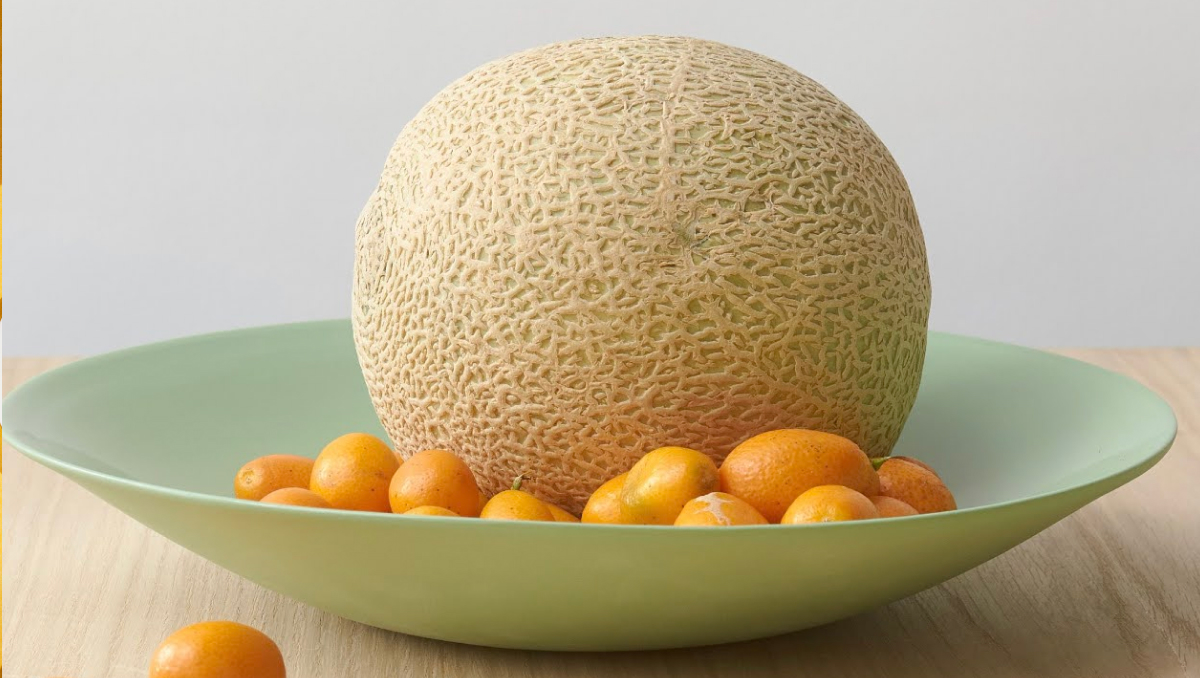
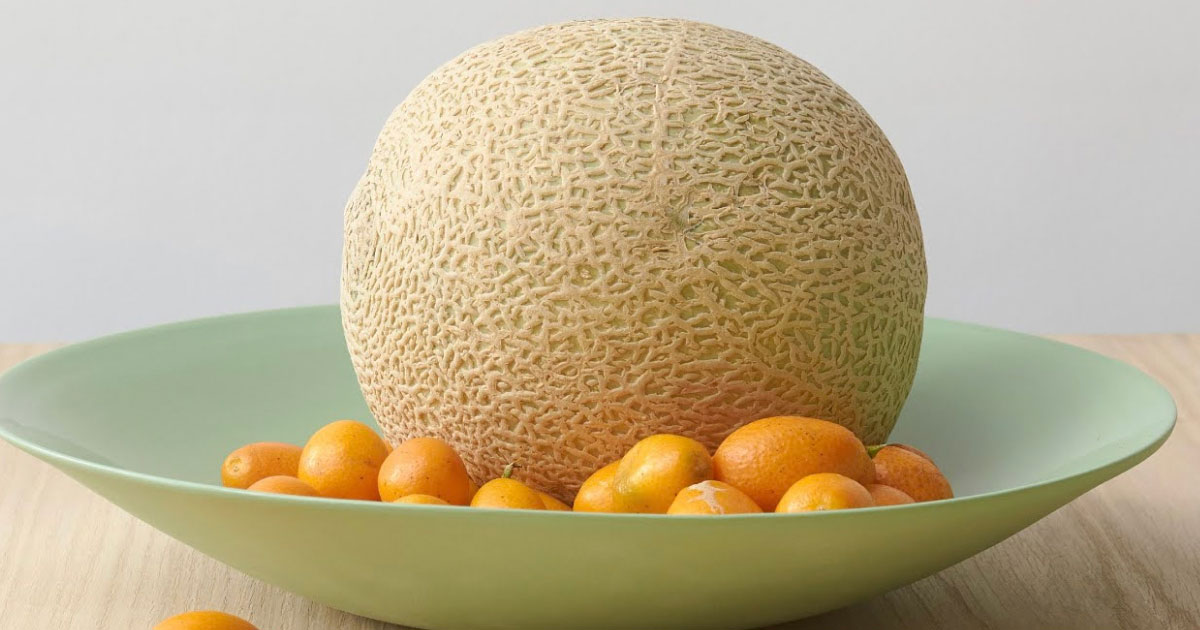
Responsive of homepage and QA fixes

diff --git a/app/components/TopHeader.jsx b/app/components/TopHeader.jsx
@@ -2,6 +2,7 @@ import { Link } from "@remix-run/react";
 import Popup from "./Popup";
 import ModalPortal from "./ModalPortal";
 import { useState, useEffect } from "react";
+import TopLogo from '/assets/Images/Hopson-toplogo.png';
 
 const TopHeader = () => {
     const [showPopup, setShowPopup] = useState(false);
@@ -23,26 +24,32 @@ const TopHeader = () => {
     };
     return ( 
         <div className="bg-[#1F1D1B] h-[3.333vw] max-[1024px]:h-[36px] max-[1024px]:py-[5px] max-[1024px]:px-[0px] max-[1024px]:mb-0 mb-[2.813vw] flex items-center justify-center text-white py-[15px] text-center text-sm min[767px]:text-[20px] tracking-[3.6px]">
-            <div className="container text-[1.042vw] max-[1024px]:text-[9px] max-[1024px]:leading-[36px]">
-                {isLoggedIn ? (
-                    <>
-                        <Link to="/products" className="text-white px-1 lg:tracking-[3.6px] tracking-[0] font-bold hover:text-gray-300 transition-colors">
-                            EXPLORE PRODUCTS <span className="lg:text-[0.833vw] ml-[8px] text-[14px] max-[1024px]:text-[8px] max-[1024px]:ml-[5px]">▶</span>
-                        </Link>
-                        <span className="lg:px-2 px-1">|</span>
-                        <Link to="/our-brands" className="text-white px-1 lg:tracking-[3.6px] tracking-[0] font-bold hover:text-gray-300 transition-colors">
-                            SHOP BY BRAND <span className="lg:text-[0.833vw] ml-[8px] text-[14px] max-[1024px]:text-[8px] max-[1024px]:ml-[5px]">▶</span>
-                        </Link>
-                    </>
-                ) : (
-                    <>
-                        REGISTRY, REDEFINED 
-                        <span className="lg:px-2 px-1">|</span> 
-                        <Link onClick={handleOpenPopup} className="text-white px-1 lg:tracking-[3.6px] tracking-[0] font-bold">
-                            START YOUR JOURNEY <span className="lg:text-[0.833vw] ml-[8px] text-[14px] max-[1024px]:text-[8px] max-[1024px]:ml-[5px]">▶</span>
-                        </Link>
-                    </>
-                )}
+            <div className="px-[2.083vw] text-[1.042vw] max-[1024px]:text-[9px] max-[1024px]:leading-[36px] w-full flex items-center">
+                <div className="w-[20%] max-[1024px]:w-[15%] max-[1024px]:hidden">
+                    <a href="https://www.hopsongrace.com/" target="_blank"><img src={TopLogo} alt="logo" className="w-[10.052vw] h-[0.781vw]" /></a>
+                </div>
+                <div className="w-[60%] max-[1024px]:w-[100%] flex items-center justify-center text-[1.042vw] leading-[1.875vw] max-[1024px]:text-[9px] max-[1024px]:leading-[14px]">
+                    {isLoggedIn ? (
+                        <>
+                            IT’S NEVER TOO LATE TO ADD GIFTS!
+                            <span className="lg:px-2 px-1">|</span> 
+                            <Link to="/dashboard/addgifts" className="text-white px-1 lg:tracking-[3.6px] tracking-[0] font-bold">
+                                ADD GIFTS <span className="lg:text-[0.833vw] ml-[8px] text-[14px] max-[1024px]:text-[8px] max-[1024px]:ml-[5px]">▶</span>
+                            </Link>
+                        </>
+                    ) : (
+                        <>
+                            REGISTRY, REDEFINED 
+                            <span className="lg:px-2 px-1">|</span> 
+                            <Link onClick={handleOpenPopup} className="text-white px-1 lg:tracking-[3.6px] tracking-[0] font-bold">
+                                START YOUR JOURNEY <span className="lg:text-[0.833vw] ml-[8px] text-[14px] max-[1024px]:text-[8px] max-[1024px]:ml-[5px]">▶</span>
+                            </Link>
+                        </>
+                    )}
+                </div>
+                <div className="w-[20%] max-[1024px]:hidden">
+
+                </div>
             </div>
             {showPopup && (
               <ModalPortal>

diff --git a/app/components/ProductSlider.jsx b/app/components/ProductSlider.jsx
@@ -28,8 +28,8 @@ const ProductSlider = ({products = []}) => {
   return (
     <div className="relative items-start mt-10 lg:mt-[3.958vw] xl:mt-[3.958vw] 2xl:mt-[3.958vw] lg:mb-0 mb-10 max-[1024px]:my-[30px]">
       <div className="max-[1024px]:max-w-[78%] w-[81.25vw] mx-auto relative">
-        <div className="swiper-button-prev-prod absolute top-0 max-[1024px]:left-[-38px] left-[-9.6vw] h-[160px] cursor-pointer text-white uppercase flex w-[139px] items-center bg-[#446184] lg:w-[7.24vw] lg:h-[18.75vw] justify-center max-[1024px]:w-[28px]">
-          <img src={nextitem} alt="" className="rotate-90 invert-100 w-[14px] h-[14px] lg:w-[1.042vw] lg:h-[1.042vw]" />
+        <div className="swiper-button-prev-prod absolute top-0 max-[1024px]:left-[-38px] left-[-9.6vw] h-[160px] cursor-pointer text-white uppercase flex w-[139px] items-center bg-[#446184] lg:w-[7.24vw] lg:h-[18.75vw] justify-center max-[1024px]:w-[28px] max-[1024px]:h-[18.75vw] max-[767px]:h-[39.801vw]">
+          <img src={nextitem} alt="" className="rotate-90 invert-100 w-[11px] h-[11px] lg:w-[1.042vw] lg:h-[1.042vw]" />
           <span className="-rotate-90 lg:text-[1.146vw] lg:leading-[1.667vw] text-white block tracking-wider max-[1024px]:hidden">
             more
           </span>
@@ -52,11 +52,11 @@ const ProductSlider = ({products = []}) => {
               spaceBetween: 8,
             },
             475: {
-              slidesPerView: 3,
+              slidesPerView: 2,
               spaceBetween: 8,
             },
             768: {
-              slidesPerView: 4,
+              slidesPerView: 3,
               spaceBetween: 19,
             },
             1025: {
@@ -73,13 +73,13 @@ const ProductSlider = ({products = []}) => {
             return (
               <SwiperSlide key={productNode.id}>
                 <div 
-                  className="cursor-pointer w-[18.75vw] max-[767px]:w-full"
+                  className="cursor-pointer w-[18.75vw] max-[1024px]:w-full"
                   onClick={() => handleProductClick(productNode.handle)}
                 >
                   <img 
                     src={firstImage?.url || '/assets/Images/placeholder.jpg'} 
                     alt={firstImage?.altText || productNode.title} 
-                    className="rounded-none w-full h-[18.75vw] object-cover" 
+                    className="rounded-none w-full h-[18.75vw] object-cover max-[767px]:h-[39.801vw]" 
                   />
                   <h3 className="mt-2.5 uppercase lg:mt-[1.563vw] lg:text-[1.25vw] xl:text-[1.25vw] 2xl:text-[1.25vw] lg:leading-[1.25vw] text-[12px] font-medium tracking-wider">
                     {productNode.title}
@@ -92,11 +92,11 @@ const ProductSlider = ({products = []}) => {
             );
           })}
         </Swiper>
-        <div className="swiper-button-next-prod absolute top-0 max-[1024px]:right-[-38px] right-[-9.6vw] cursor-pointer text-white uppercase flex lg:w-[7.24vw] lg:h-[18.75vw] h-[160px] items-center bg-[#446184] justify-center max-[1024px]:w-[28px]">
+        <div className="swiper-button-next-prod absolute top-0 max-[1024px]:right-[-38px] right-[-9.6vw] cursor-pointer text-white uppercase flex lg:w-[7.24vw] lg:h-[18.75vw] h-[160px] items-center bg-[#446184] justify-center max-[1024px]:w-[28px] max-[767px]:h-[39.801vw] max-[1024px]:h-[18.75vw]">
           <span className="-rotate-270 lg:text-[1.146vw] lg:leading-[1.667vw] text-white block tracking-wider max-[1024px]:hidden">
             more
           </span>
-          <img src={nextitem} className="rotate-270 invert-100 lg:w-[1.042vw] lg:h-[1.042vw] w-[14px] h-[14px]" alt="" />
+          <img src={nextitem} className="rotate-270 invert-100 lg:w-[1.042vw] lg:h-[1.042vw] w-[11px] h-[11px]" alt="" />
         </div>
       </div>
     </div>

diff --git a/app/components/Items.jsx b/app/components/Items.jsx
@@ -2,6 +2,7 @@ import { Link, useNavigate } from '@remix-run/react';
 import kyleanderik from '/assets/Images/KYLE-ERIK-EDITS-20 1.png';
 import kyleanderikmobile from '/assets/Images/kyleerikmobile.png';
 import img1 from '/assets/Images/Mask group.png';
+import linkIcon from '/assets/Images/hopson-linkicon.png';
 
 const Items = ({ featuredRegistryData = null }) => {
   const navigate = useNavigate();
@@ -36,9 +37,9 @@ const Items = ({ featuredRegistryData = null }) => {
 
   return (
     <div>
-      <div className="flex lg:justify-center items-center grid-cols-2 lg:grid-cols-[60.677vw_32.448vw] lg:grid-rows-2 max-[1024px]:gap-y-[20px]">
+      <div className="flex lg:justify-center items-center grid-cols-2 lg:grid-cols-[60.677vw_32.448vw] lg:grid-rows-2 max-[1024px]:gap-y-[20px] max-[767px]:flex-col max-[767px]:px-[23px]">
         {/* First item spans full width */}
-        <div className="lg:row-span-2 max-[1025px]:col-span-2 w-[60.677vw] h-[32.292vw] max-[1024px]:h-[51vw]">
+        <div className="lg:row-span-2 max-[1025px]:col-span-2 w-[60.677vw] h-[42.292vw] max-[1024px]:h-[51vw] max-[767px]:w-full">
           <div className="featureImage relative insetshadow registrytag h-full max-[1024px]:h-[51vw]">
             <img 
               src={subCollection?.image?.url || parentCollection?.image?.url || img1} 
@@ -59,11 +60,11 @@ const Items = ({ featuredRegistryData = null }) => {
         </div>
 
         {/* Dynamic products from the first 6 products */}
-        <div className="flex flex-wrap gap-[1.146vw] w-[41.3vw] bg-[#F5F2ED] relative p-[2.292vw] lg:-left-[2.5vw] xl:-left-[2.5vw] 2xl:-left-[2.5vw]">
+        <div className="flex flex-wrap gap-[1.146vw] w-[47.3vw] bg-[#F5F2ED] max-[767px]:bg-[#ffffff] max-[767px]:p-0 max-[767px]:gap-x-[7px] relative p-[2.292vw] lg:-left-[2.5vw] xl:-left-[2.5vw] 2xl:-left-[2.5vw] max-[767px]:w-full">
           {products.slice(0, 6).map((product, index) => (
             <div 
               key={product.node.id || index} 
-              className="item cursor-pointer w-[11.458vw] h-[11.458vw] max-[1024px]:w-[11.2vw] max-[1024px]:h-[11.2vw]"
+              className="item cursor-pointer w-[13.458vw] h-[13.458vw] max-[1024px]:w-[11.2vw] max-[1024px]:h-[11.2vw] max-[767px]:w-[calc(50%-3.5px)] max-[767px]:h-[29.85vw]"
               onClick={() => handleProductClick(product.node.handle)}
             >
               <img 
@@ -82,7 +83,10 @@ const Items = ({ featuredRegistryData = null }) => {
               </p> */}
             </div>
           ))}
+
+          <div className='item w-full flex justify-center items-center pt-4'><a href="#" className='w-full h-full flex items-center justify-center text-[0.938vw] leading-[1.042vw] max-[1024px]:text-[14px] max-[1024px]:leading-[20px] font-[800] gap-[10px]'>VIEW THIS REGISTRY <img src={linkIcon} alt='link icon' className='w-[1.563vw] h-auto max-[1024px]:w-[20px]' /></a></div>
         </div>
+
         
         {/* Fallback items if no dynamic products */}
         {products.length === 0 && (

diff --git a/app/components/Footer.jsx b/app/components/Footer.jsx
@@ -67,7 +67,7 @@ export function Footer({footer: footerPromise, header, publicStoreDomain}) {
                     </li>
                     <li>
                       <Link className="text-white" to="/why-the-registry">
-                      WHY THE REGISTRY?
+                      WHY THE REGISTRY
                       </Link>
                     </li>
                     <li>
@@ -123,12 +123,12 @@ export function Footer({footer: footerPromise, header, publicStoreDomain}) {
                     </li>
                     <li>
                       <Link className="text-white" to="/inspiration">
-                        INSPIRATION
+                        FIND INSPIRATION
                       </Link>
                     </li>
                     <li>
                       <Link className="text-white" to="/ready-made-registries">
-                        READY MADE REGISTRIES
+                        READY-MADE REGISTRIES
                       </Link>
                     </li>
                     <li>
@@ -197,7 +197,7 @@ export function Footer({footer: footerPromise, header, publicStoreDomain}) {
                           buttonText="LIVE CHAT"
                           showTitle={false}
                           showDescription={false}
-                          className="text-white bg-transparent border-none cursor-pointer hover:underline font-[500] text-[0.833vw] max-md:text-[14px] max-md:leading-[26px] leading-[1.875vw] tracking-[0.08em] p-0 m-0"
+                          className="text-white bg-transparent border-none cursor-pointer hover:underline font-[500] text-[0.833vw] max-md:text-[14px] max-md:leading-[26px] leading-[1.875vw] tracking-[0.08em] !p-0 m-0"
                         />
                       </div>
                     </li>

diff --git a/app/components/Header.jsx b/app/components/Header.jsx
@@ -680,7 +680,7 @@ export function Header() {
       {/* Sticky Header - Rendered via Portal outside app-scale */}
       {isFixed && headerPortalTarget && createPortal(
         <header
-          className="header-sticky-animated flex justify-between px-4 lg:px-[3.854vw] max-[1024px]:items-center transition-all duration-200 ease-in-out fixed top-0 left-0 right-0 w-full z-50 bg-black shadow-lg h-[6.823vw]"
+          className="header-sticky-animated flex justify-between px-4 lg:px-[3.854vw] max-[1024px]:items-center transition-all duration-200 ease-in-out fixed top-0 left-0 right-0 w-full z-50 bg-black shadow-lg h-[4.823vw] max-[1024px]:h-[60px]"
         >
         {/* User Icon */}
         <div
@@ -1044,7 +1044,7 @@ export function Header() {
         <div
           className={`max-[1024px]:hidden fixed transition-all duration-300 ${
             isMenuOpenBottom 
-              ? 'top-[100px] opacity-100 pointer-events-auto' 
+              ? 'top-[72px] opacity-100 pointer-events-auto' 
               : 'top-[-500px] opacity-0 pointer-events-none'
           } left-0 w-full z-40 bg-white shadow-lg max-h-[calc(100vh-100px)] overflow-y-auto`}
         >

diff --git a/app/components/ImageAndText.jsx b/app/components/ImageAndText.jsx
@@ -49,7 +49,7 @@ const ImageAndText = ({
         {stepsCheck ? (
           <Steps className="max-w-[520px]" />
         ) : (
-          <p className="text-[12px] leading-[18px] font-[400] lg:text-[1.354vw] xl:text-[1.354vw] 2xl:text-[1.354vw] lg:leading-[2.292vw] xl:leading-[2.292vw] 2xl:leading-[2.292vw] max-w-[488px] lg:mt-[2.042vw] mt-4 mb-[25px] text-center">
+          <p className="text-[12px] leading-[18px] font-[500] lg:text-[1.354vw] xl:text-[1.354vw] 2xl:text-[1.354vw] lg:leading-[2.292vw] xl:leading-[2.292vw] 2xl:leading-[2.292vw] max-w-[488px] lg:mt-[2.042vw] mt-4 mb-[25px] text-center">
             {description}
           </p>
         )}
@@ -95,7 +95,7 @@ const ImageAndText = ({
       </div>
 
       <div
-        className={`lg:w-[65%] w-[45%] min-w-[45%] h-[34.375vw] relative ${
+        className={`lg:w-[65%] w-[45%] min-w-[45%] h-[42vw] max-[767px]:h-[320px] relative ${
           direction === 'left' ? 'lg:mt-[2.24vw] xl:mt-[2.24vw] 2xl:mt-[2.24vw] mt-6 top-[3.229vw]' : 'top-[-3.229vw]'
         }`}
       >

diff --git a/app/routes/home._index.jsx b/app/routes/home._index.jsx
@@ -330,7 +330,7 @@ const Home = () => {
             imgBanner={atyourserviceGif}
             lineimg={lineImg}
             title=" at your service"
-            description="There's no question too small or request too big for our Registry advisors. We're always at your service."
+            description="There’s no question too small or request too big for one of our Registry concierges. We’re always at your service."
             buttontext={'CONTACT US'}
             buttontype={'link'}
             buttonLink={'/contact-us'}
@@ -348,7 +348,7 @@ const Home = () => {
           imgBanner={virtualappointmentImg}
           lineimg={lineImg2}
           title=<>book a virtual <br/>appointment</>
-          description="Our virtual appointments offer the  same personalized guidance — without leaving home. "
+          description="Our virtual appointments offer personalized guidance without leaving home."
           buttontext={'BOOK NOW'}
           buttontype={'link'}
           buttonLink={'/contact-us'}

diff --git a/app/components/Textandbutton.jsx b/app/components/Textandbutton.jsx
@@ -6,7 +6,7 @@ const Textandbutton = () => {
     <div className="max-w-[1258px] mx-auto px-3">
       <h2 className="lg:text-[3.542vw] text-[22px] leading-[28px] max-[1024px]:w-[367px] max-[1024px]:max-w-full max-[1024px]:mx-auto prata text-center lg:leading-[3.854vw] font-normal mb-7">
         your wedding <span className="italic ivyora font-normal">isn't</span>{' '}ordinary,
-         <br /> your registry<span className="italic ivyora font-normal"> shouldn't be either</span>
+         <br /> <span className="italic ivyora font-normal"> neither is </span> your registry
       </h2>
       <p className="text-center lg:text-[1.563vw] lg:leading-[2.083vw] max-w-[1080px] max-[768px]:max-w-[390px] mx-auto lg:mb-[2.083vw] mb-[65px] max-[1024px]:w-[291px] max-[1024px]:max-w-full max-[1024px]:mx-auto text-[12px] leading-[16px] tracking-[0.72px]">
         From iconic homeware to bespoke travel experiences and custom cash

diff --git a/app/components/Sliderwithcontent.jsx b/app/components/Sliderwithcontent.jsx
@@ -54,7 +54,7 @@ const Sliderwithcontent = ({ featuredRegistryData }) => {
     <div>
       <Heading
         text={subCollections[activeSlideIndex]?.title || 'Registry'}
-        classes={`text-[1.25vw] leading-[1.458vw] font-bold uppercase tracking-[0.1em] mt-0 mb-[2.604vw]`}
+        classes={`text-[1.25vw] leading-[1.458vw] max-[1024px]:text-[14px] max-[1024px]:leading-[28px] font-bold uppercase tracking-[0.1em] mt-0 mb-[2.604vw]`}
       />
 
       <div className="tabandslider relative">
